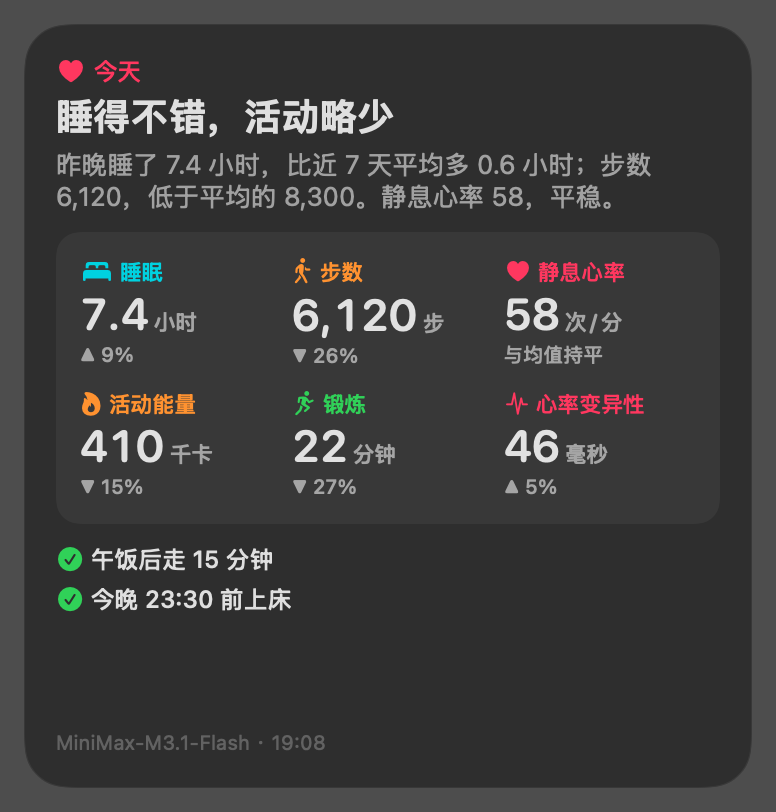
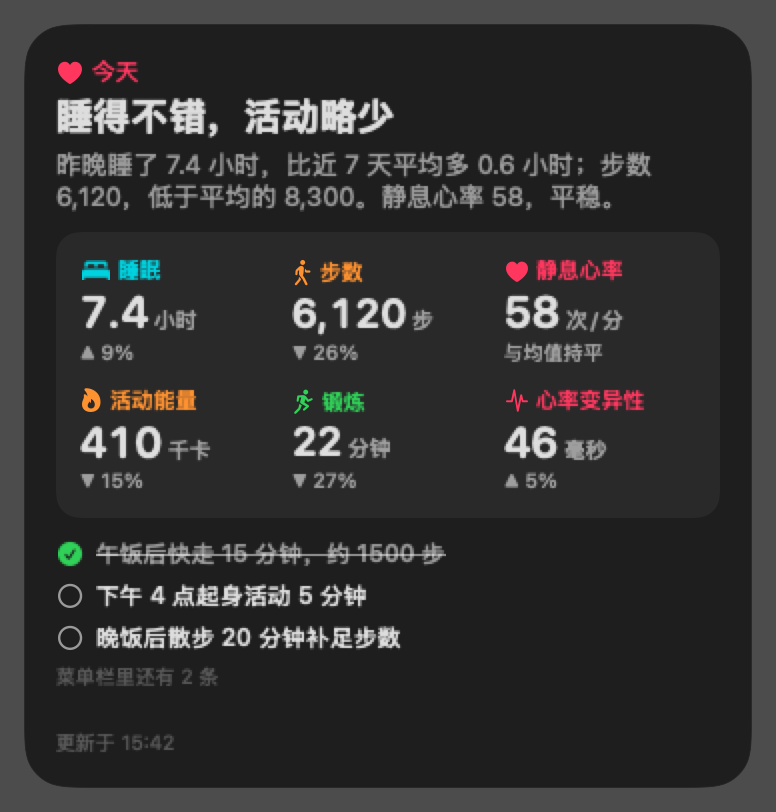
README opens with a feature introduction, then installation; new screenshots of the checklist and the Dynamic Island

diff --git a/Sources/Shared/Health.swift b/Sources/Shared/Health.swift
@@ -300,11 +300,13 @@ struct Summary: Codable {
         if lang == "zh" {
             return Summary(date: "2026-10-31", generatedAt: Date(), model: "MiniMax-M3.1-Flash", headline: "睡得不错，活动略少",
                            summary: "昨晚睡了 7.4 小时，比近 7 天平均多 0.6 小时；步数 6,120，低于平均的 8,300。静息心率 58，平稳。",
-                           tips: ["午饭后走 15 分钟", "今晚 23:30 前上床"], metrics: m, weekAvg: avg, error: nil, lang: "zh")
+                           tips: ["午饭后快走 15 分钟，约 1500 步", "下午 4 点起身活动 5 分钟", "晚饭后散步 20 分钟补足步数", "22:30 放下手机，23:30 前上床", "睡前 5 分钟慢呼吸放松"],
+                           metrics: m, weekAvg: avg, error: nil, lang: "zh", done: ["午饭后快走 15 分钟，约 1500 步"], version: current)
         }
         return Summary(date: "2026-10-31", generatedAt: Date(), model: "MiniMax-M3.1-Flash", headline: "Slept well, moved less",
                        summary: "You slept 7.4 h, 0.6 h more than your 7-day average. Steps are at 6,120, below your usual 8,300. Resting HR is steady at 58.",
-                       tips: ["Take a 15-minute walk after lunch", "Aim for bed by 11:30 pm"], metrics: m, weekAvg: avg, error: nil, lang: "en")
+                       tips: ["Walk 15 minutes after lunch, ~1,500 steps", "Stand and stretch at 4 pm", "Evening walk of 20 minutes", "Phone down at 10:30, bed by 11:30", "Five minutes of slow breathing before bed"],
+                       metrics: m, weekAvg: avg, error: nil, lang: "en", done: ["Walk 15 minutes after lunch, ~1,500 steps"], version: current)
     }
 }
 

diff --git a/README.md b/README.md
@@ -2,36 +2,59 @@
 
 English | [中文](README.zh-CN.md)
 
-A macOS desktop widget that reads your iPhone Health data once a day and shows a short AI-written summary: how you slept, how much you moved, how today compares with your last 7 days, and one or two things to do next.
+Your iPhone Health data on your Mac desktop, summarised by AI every day: how you slept, how much you moved, how today compares with your last 7 days, and a checklist of what to do next.
 
 <p>
-  <img src="docs/widget-medium.png" width="380" alt="Medium widget">
-  <img src="docs/widget-large-dark.png" width="300" alt="Large widget, dark mode">
+  <img src="docs/widget-large-dark.png" width="330" alt="Large widget">
+  <img src="docs/island.png" width="360" alt="Dynamic Island, opened">
 </p>
 
-*The screenshots use made-up sample data.* The app and the summaries are in English or Chinese; switch with **Language** in the menu.
+*The screenshots use made-up sample data.*
 
-## How it works
+## Introduction
 
-macOS has no Health app, so a Mac cannot read Health data directly. An iPhone shortcut exports the numbers to iCloud Drive instead. A small menu-bar app on the Mac reads them, asks the MiniMax API for a summary, and the desktop widget shows the result.
+### Features
+
+- **A daily AI summary.** A specific headline, two or three sentences and your key numbers: sleep, steps, resting heart rate, active energy, and more when the shortcut exports them. Each number is compared with your own 7-day average. MiniMax writes it in English or Chinese; switch with **Language** in the menu.
+- **Today's checklist.** Four to six concrete things to do, each with a time or an amount, such as "Walk 15 minutes after lunch, ~1,500 steps". Tick them off in the menu bar, on the desktop card or in the Dynamic Island. When the summary is rewritten later in the day, ticked items stay ticked and are not suggested again.
+- **Questions about your data.** Type a question such as "How many more steps to reach 8,000?" and get a short answer based on your last 14 days, today's summary and the checklist. Each question stands on its own.
+- **Three ways to show it on the desktop:**
+  - a macOS **widget** in small, medium or large;
+  - a **card** pinned to the desktop, which you can drag anywhere;
+  - a **Dynamic Island**: hidden until you point at the top centre of the screen. Then an icon and today's steps appear around the notch, or as a notch-shaped pill on screens without one. Click to open the card; click outside or press Esc to close it.
+- **Always up to date.** The iPhone shortcut runs whenever you open an app you choose. The Mac checks iCloud once a minute and rewrites the summary when the numbers change, automatically at most every 30 minutes.
+- **Friends and family.** Everyone who shares a `HealthGlance` folder in iCloud Drive gets their own card and 7-day history. Choose whose card is shown in the menu.
+- **Games with friends.** Shared numbers become a game page that everyone opens from the folder. In **Puff Battles**, eggs hatch into random pets with rarities and skills, and the pets battle every day. In **Garden**, each player grows a plant. Invite players with a link, and start over at any time with **New game**.
+- **Careful with your data.** Health data stays in your iCloud Drive and on your Mac. Only the numbers go to MiniMax, for the summary and your questions; the games never send them. Impossible values, such as a typo or an edited file, are ignored. The API key stays in a local file.
+
+<p>
+  <img src="docs/island-closed.png" width="172" alt="Dynamic Island, closed">
+</p>
+
+### How it works
+
+macOS has no Health app, so a Mac cannot read Health data directly. An iPhone shortcut exports the numbers to iCloud Drive instead. A small menu-bar app on the Mac reads them, asks the MiniMax API for a summary, and shows the result on the desktop.
 
 ```
 iPhone shortcut ──writes──▶ iCloud Drive/Shortcuts/HealthWidget/health.txt
+                            (or the shared iCloud Drive/HealthGlance folder)
                                       │
 Mac menu-bar app ◀──reads─────────────┘ ──calls──▶ MiniMax (OpenAI-compatible API)
         │ writes ~/Library/Application Support/HealthWidget/summary.json
         ▼
-Desktop widget (small / medium / large), or a card pinned to the desktop
+Widget (small / medium / large), a card pinned to the desktop, or a Dynamic Island
 ```
 
-## Requirements
+## Installation
+
+### Requirements
 
 - A Mac with Apple Silicon, running macOS 14 Sonoma or later.
 - Xcode Command Line Tools. Install them with `xcode-select --install`. The full Xcode is not needed.
 - An iPhone with Health data. An Apple Watch is optional, but some metrics need one.
 - A MiniMax API key from [platform.minimaxi.com](https://platform.minimaxi.com) (China) or [platform.minimax.io](https://platform.minimax.io) (international).
 
-## Install on the Mac
+### 1. Install the Mac app
 
 ```bash
 git clone git@github.com:AlbertHX86/health-glance.git
@@ -40,15 +63,15 @@ cd health-glance
 ```
 
 1. Click the heart icon in the menu bar, paste your MiniMax API key and click **Save**.
-2. Right-click an empty part of the desktop, choose **Edit Widgets**, search for **HealthGlance** and drag it onto the desktop. It comes in small, medium and large.
-3. If the widget does not appear in the list, turn on **Pin card to desktop** in the menu instead. It shows the same card in a window that you can drag around.
+2. Choose how to show it with **On the desktop** in **Settings**: **Card**, **Dynamic Island** or **Off**.
+3. For the system widget, right-click an empty part of the desktop, choose **Edit Widgets**, search for **HealthGlance** and drag it onto the desktop. It comes in small, medium and large. If it is not in the list, use the card or the Dynamic Island instead.
 4. To start the app at login, turn on **Launch at login**.
 
-## Set up the iPhone shortcut (once)
+### 2. Set up the iPhone shortcut (once)
 
 You can let the iPhone build the shortcut from a description, or build it by hand. Either way, finish with Steps 4 and 5.
 
-### Quick way: describe it to your iPhone
+#### Quick way: describe it to your iPhone
 
 On iOS 27 with Apple Intelligence, the Shortcuts app can build a shortcut from a plain-language description. Tap **+** in the Shortcuts app and paste the text below:
 
@@ -69,7 +92,7 @@ Do not use "in the last 1 day" for any date filter.
 
 The generated shortcut is not always right, so before saving, compare it with Steps 1–3 below. Check the date filters most carefully. If your iPhone is set to Chinese, use the Chinese description in [README.zh-CN.md](README.zh-CN.md) instead. Then continue with Step 4.
 
-### By hand
+#### By hand
 
 **Step 1: Create the shortcut.** In the Shortcuts app, create a shortcut named `Health Export`. For each metric, add **Find Health Samples** with these filters, followed by the action in the last column:
 
@@ -98,7 +121,7 @@ Line names can be English or Chinese, for example `steps` or `步数`. Units are
 
 **Step 3: Save the file.** Add **Save File**. Turn off **Ask Where to Save**, set the subpath to `HealthWidget/health.txt` and turn on **Overwrite If File Exists**.
 
-### Finish (both ways)
+#### Finish (both ways)
 
 **Step 4: Run it once by hand.** The first time, the iPhone asks for permission to read each Health data type; allow them all. An automation cannot show these prompts, which is why the first run has to be manual.
 
@@ -366,6 +389,7 @@ Settings live in `~/Library/Application Support/HealthWidget/config.json`. The f
 ./build/healthwidget-cli --sources                           # what the source test found
 ./build/healthwidget-cli --garden                            # update the game page now
 ./build/healthwidget-cli --new-game                          # start over: season 1 from today, new eggs
+./build/healthwidget-cli --ask "How did I sleep this week?"  # ask a question about your data
 ./build/healthwidget-cli --pets-demo --lang en               # made-up players → build/pets-demo.html
 ./build/healthwidget-cli --pets-gallery --lang en            # one pet of each rarity → build/pets-gallery.html
 ./build/healthwidget-cli --garden-demo --lang en             # made-up players → build/garden-demo.html
@@ -379,7 +403,7 @@ Files dropped into `~/Library/Application Support/HealthWidget/inbox/` are read 
 |---|---|
 | Steps or sleep far too high | The shortcut uses **in the last 1 day**, or sleep includes **In Bed**. Use the filters in the table above. |
 | Numbers are higher than the Health app's | The iPhone and Apple Watch both recorded the same activity, and the shortcut adds them up. For sleep, add **Source is (your watch)**. |
-| The widget is not in the widget list | Use **Pin card to desktop**. |
+| The widget is not in the widget list | Choose **Card** or **Dynamic Island** under **On the desktop**. |
 | The menu says **No MiniMax API key yet** | No key has been saved. Paste it in the menu and click **Save**. |
 | The summary does not change | Check that `health.txt` updated in Files → iCloud Drive → Shortcuts → HealthWidget. |
 
@@ -389,8 +413,9 @@ Files dropped into `~/Library/Application Support/HealthWidget/inbox/` are read 
 |---|---|
 | `Sources/Shared/Health.swift` | File locations, parser, summary and history cache |
 | `Sources/Shared/CardView.swift` | The card UI, shared by the widget and the pinned card |
-| `Sources/App/Engine.swift` | MiniMax call and prompts (English and Chinese) |
-| `Sources/App/App.swift` | Menu-bar app: watching for data, generating, pinned card, launch at login |
+| `Sources/App/Engine.swift` | MiniMax calls and prompts for summaries and questions (English and Chinese) |
+| `Sources/App/App.swift` | Menu-bar app: watching for data, generating, checklist, questions, pinned card, launch at login |
+| `Sources/App/Island.swift` | Dynamic Island at the top centre of the screen |
 | `Sources/App/Garden.swift` | Games with friends: ledger, seasons, Garden rules and page |
 | `Sources/App/Pets.swift` | Puff Battles: hatching, skills, battles, page |
 | `Sources/Widget/Widget.swift` | WidgetKit widget |
